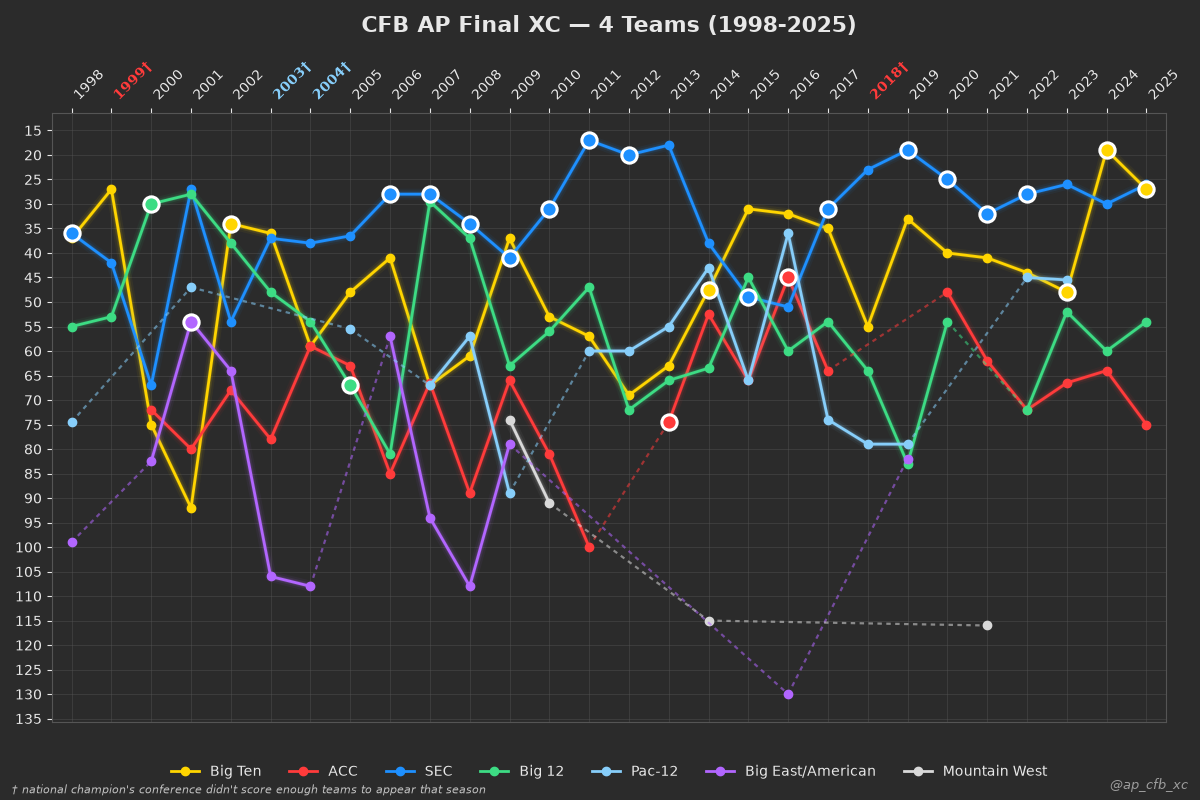
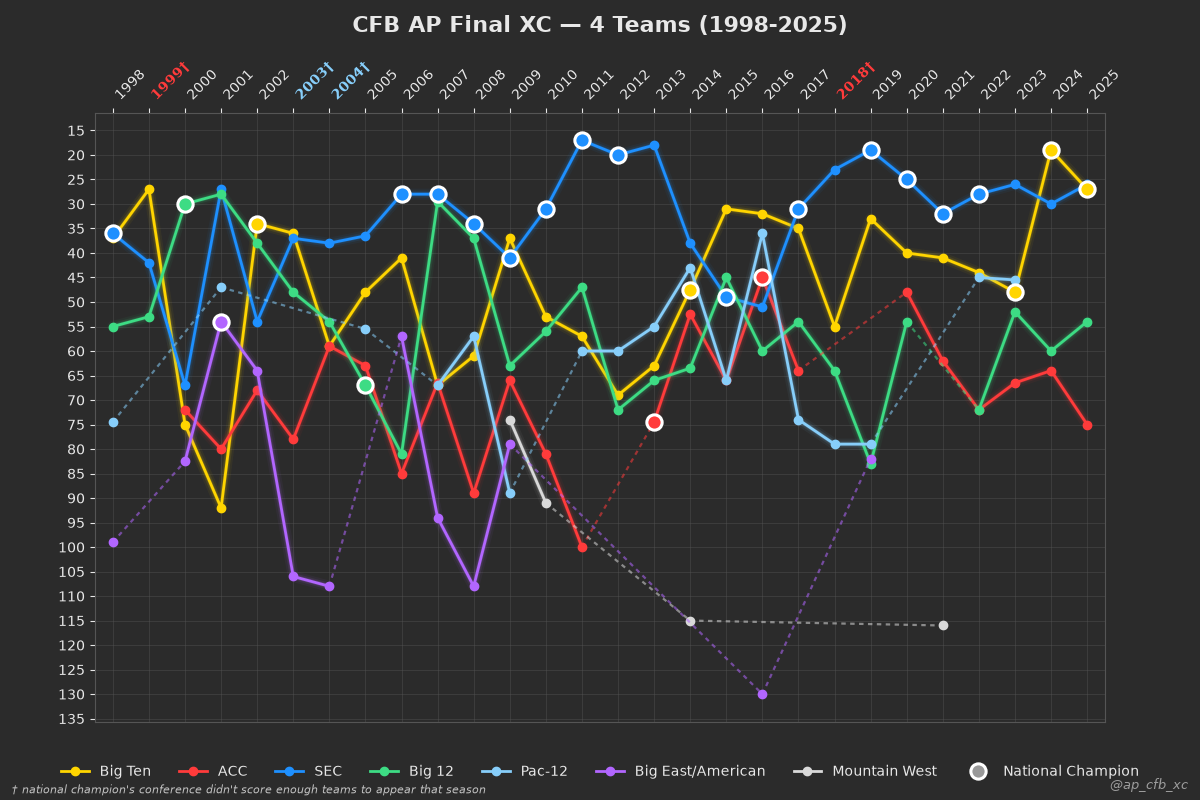
Add national champion indicator to graph legends

diff --git a/graph_data.py b/graph_data.py
@@ -4,6 +4,7 @@ import re
 
 import pandas as pd
 import matplotlib.pyplot as plt
+from matplotlib.lines import Line2D
 from matplotlib.ticker import MultipleLocator
 
 import store_data as sd
@@ -40,6 +41,11 @@ FALLBACK_COLORS = ["#FF6EC7", "#00E5FF", "#C0FF00"]
 # CONFERENCE_COLORS either - practically shouldn't happen since every conference that has ever
 # produced an AP #1 team already has a fixed color above.
 OFF_CHART_CHAMPION_FALLBACK_COLOR = "#FFC72C"
+
+# Neutral fill for the "National Champion" legend swatch - the real on-chart marker keeps the
+# champion's own conference color, but the legend entry just needs to show the white-ring style
+# generically, so a conference-agnostic grey reads better than picking any one conference's color.
+CHAMPION_LEGEND_MARKER_COLOR = "#999999"
 
 BACKGROUND_COLOR = "#2B2B2B"
 GRID_COLOR = "#555555"
@@ -215,6 +221,7 @@ def generate_graph(
     # enough teams that period (DNS) - there's nothing to ring, so its x-axis tick label is colored
     # and marked instead (see the tick-styling section below); off_chart_champions collects those.
     off_chart_champions = {}
+    champion_ring_drawn = False
     if champion_highlight:
         for x_label, champ_conf in champion_highlight.items():
             has_point = (
@@ -234,6 +241,7 @@ def generate_graph(
                     linestyle="none",
                     zorder=6,
                 )
+                champion_ring_drawn = True
             elif x_label in df_cleaned.index:
                 off_chart_champions[x_label] = champ_conf
 
@@ -297,11 +305,29 @@ def generate_graph(
     for spine in ax.spines.values():
         spine.set_color(GRID_COLOR)
 
-    # Legend along the bottom, one column per conference, no border
+    # Legend along the bottom, one column per conference (plus the champion-marker swatch, if
+    # used), no border
+    handles, labels = ax.get_legend_handles_labels()
+    if champion_ring_drawn:
+        handles.append(
+            Line2D(
+                [],
+                [],
+                marker="o",
+                markersize=11,
+                markerfacecolor=CHAMPION_LEGEND_MARKER_COLOR,
+                markeredgecolor="#FFFFFF",
+                markeredgewidth=2.2,
+                linestyle="none",
+            )
+        )
+        labels.append("National Champion")
     legend = ax.legend(
+        handles,
+        labels,
         loc="upper center",
         bbox_to_anchor=(0.5, -0.05),
-        ncol=len(df_cleaned.columns),
+        ncol=len(handles),
         frameon=False,
     )
     for text in legend.get_texts():
